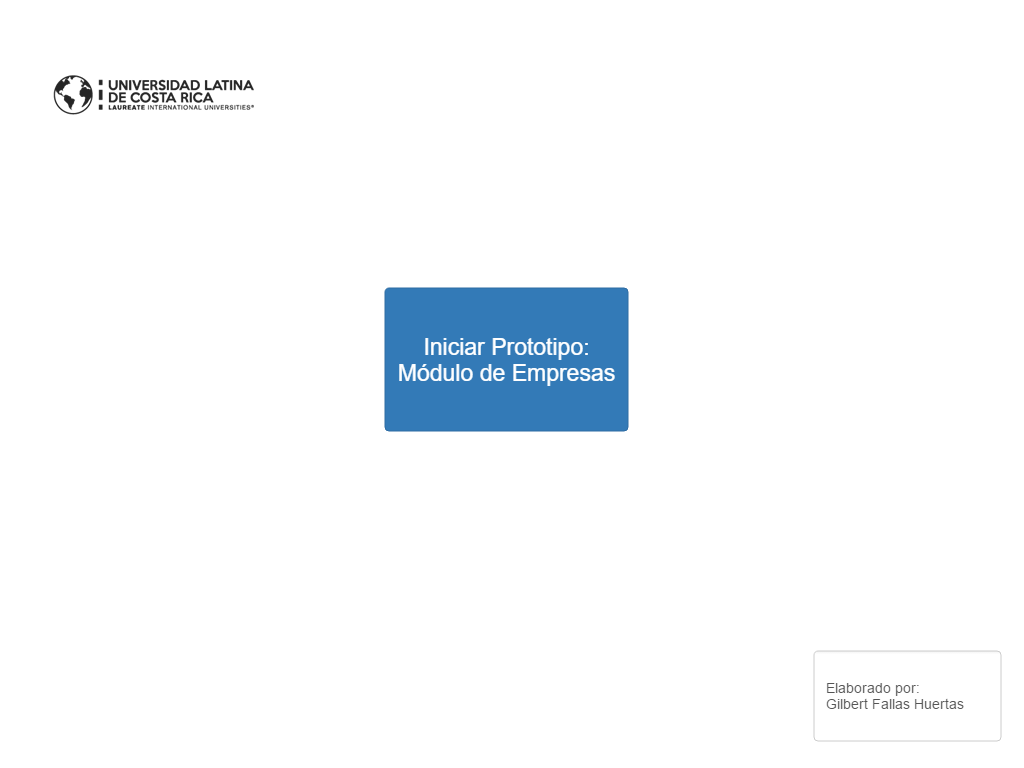
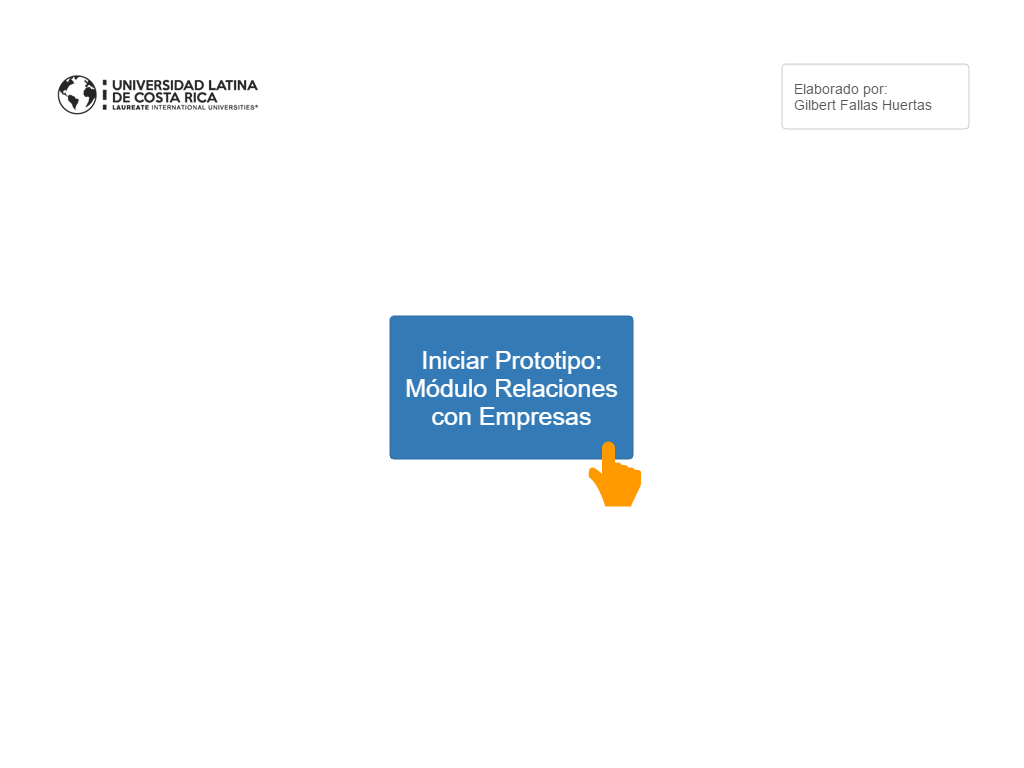
v1.4
Versión Final

diff --git a/index.html b/index.html
@@ -12,7 +12,7 @@
     <div class="Page" id="inicio_page">
         <h2>Inicio</h2>
         <div class="ImageContainer"><img src="pages\inicio.png" width="1024" height="768" usemap="#map_inicio" /></div>
-        <map name="map_inicio"><area shape="rect" coords="385,288,628,431" href="#1_proceso_de_registro_page"
+        <map name="map_inicio"><area shape="rect" coords="390,316,633,459" href="#1_proceso_de_registro_page"
                 title="Go to page '1. Proceso de registro'" /></map>
     </div>
     <div class="Page" id="1_proceso_de_registro_page">
@@ -20,24 +20,24 @@
         <div class="ImageContainer"><img src="pages\1_proceso_de_registro.png" width="1024" height="768"
                 usemap="#map_1_proceso_de_registro" /></div><map name="map_1_proceso_de_registro"><area shape="rect"
                 coords="159,499,870,547" href="#1a_pgina_de_registro_page"
-                title="Go to page '1.A Página de registro'" /></map>
+                title="Go to page '1.A. Página de registro'" /></map>
     </div>
     <div class="Page" id="1a_pgina_de_registro_page">
-        <h2>1.A Página de registro</h2>
+        <h2>1.A. Página de registro</h2>
         <div class="ImageContainer"><img src="pages\1a_pgina_de_registro.png" width="1024" height="768"
                 usemap="#map_1a_pgina_de_registro" /></div><map name="map_1a_pgina_de_registro"><area shape="rect"
                 coords="255,569,758,621" href="#1b_correo_de_activacin_page"
-                title="Go to page '1.B Correo de activación'" /></map>
+                title="Go to page '1.B. Correo de activación'" /></map>
     </div>
     <div class="Page" id="1b_correo_de_activacin_page">
-        <h2>1.B Correo de activación</h2>
+        <h2>1.B. Correo de activación</h2>
         <div class="ImageContainer"><img src="pages\1b_correo_de_activacin.png" width="1024" height="768"
                 usemap="#map_1b_correo_de_activacin" /></div><map name="map_1b_correo_de_activacin"><area shape="rect"
                 coords="403,354,557,418" href="#2_creacin_de_proyectos_page"
                 title="Go to page '2. Creación de proyectos'" /></map>
     </div>
     <div class="Page" id="1c_activacin_completada_page">
-        <h2>1.C Activación completada</h2>
+        <h2>1.C. Activación completada</h2>
         <div class="ImageContainer"><img src="pages\1c_activacin_completada.png" width="1024" height="768"
                 usemap="#map_1c_activacin_completada" /></div><map name="map_1c_activacin_completada"><area shape="rect"
                 coords="916,105,978,136" href="#2_creacin_de_proyectos_page"
@@ -52,17 +52,17 @@
                 title="Go to page '3. Autorización de proyectos'" /></map>
     </div>
     <div class="Page" id="2a_crear_proyecto_nuevo_page">
-        <h2>2.A Crear proyecto nuevo</h2>
+        <h2>2.A. Crear proyecto nuevo</h2>
         <div class="ImageContainer"><img src="pages\2a_crear_proyecto_nuevo.png" width="1024" height="768"
                 usemap="#map_2a_crear_proyecto_nuevo" /></div><map name="map_2a_crear_proyecto_nuevo"><area shape="rect"
                 coords="23,284,153,310" href="#2b_registrar_proyecto_page"
-                title="Go to page '2.B Registrar Proyecto'" /></map>
+                title="Go to page '2.B. Registrar Proyecto'" /></map>
     </div>
     <div class="Page" id="2b_registrar_proyecto_page">
-        <h2>2.B Registrar Proyecto</h2>
+        <h2>2.B. Registrar Proyecto</h2>
         <div class="ImageContainer"><img src="pages\2b_registrar_proyecto.png" width="1024" height="768"
                 usemap="#map_2b_registrar_proyecto" /></div><map name="map_2b_registrar_proyecto"><area shape="rect"
-                coords="453,599,516,637" href="#3a_ver_proyectos_page" title="Go to page '3.A Ver proyectos'" /><area
+                coords="453,599,516,637" href="#3a_ver_proyectos_page" title="Go to page '3.A. Ver proyectos'" /><area
                 shape="rect" coords="11,92,1012.00006103516,674.000061035156" href="#3_autorizacin_de_proyectos_page"
                 title="Go to page '3. Autorización de proyectos'" /></map>
     </div>
@@ -71,17 +71,17 @@
         <div class="ImageContainer"><img src="pages\3_autorizacin_de_proyectos.png" width="1024" height="768"
                 usemap="#map_3_autorizacin_de_proyectos" /></div><map name="map_3_autorizacin_de_proyectos"><area
                 shape="rect" coords="399,353,553,417" href="#3a_ver_proyectos_page"
-                title="Go to page '3.A Ver proyectos'" /></map>
+                title="Go to page '3.A. Ver proyectos'" /></map>
     </div>
     <div class="Page" id="3a_ver_proyectos_page">
-        <h2>3.A Ver proyectos</h2>
+        <h2>3.A. Ver proyectos</h2>
         <div class="ImageContainer"><img src="pages\3a_ver_proyectos.png" width="1024" height="768"
                 usemap="#map_3a_ver_proyectos" /></div><map name="map_3a_ver_proyectos"><area shape="rect"
                 coords="591,577,723,689" href="#3b_correo_de_notificacin_page"
-                title="Go to page '3.B Correo de notificación'" /></map>
+                title="Go to page '3.B. Correo de notificación'" /></map>
     </div>
     <div class="Page" id="3b_correo_de_notificacin_page">
-        <h2>3.B Correo de notificación</h2>
+        <h2>3.B. Correo de notificación</h2>
         <div class="ImageContainer"><img src="pages\3b_correo_de_notificacin.png" width="1024" height="768"
                 usemap="#map_3b_correo_de_notificacin" /></div><map name="map_3b_correo_de_notificacin"><area
                 shape="rect" coords="854,662,977,704" href="#4_inscripcin_a_los_proyectos_page"
@@ -92,17 +92,17 @@
         <div class="ImageContainer"><img src="pages\4_inscripcin_a_los_proyectos.png" width="1024" height="768"
                 usemap="#map_4_inscripcin_a_los_proyectos" /></div><map name="map_4_inscripcin_a_los_proyectos"><area
                 shape="rect" coords="660,337,721,377" href="#4a_seleccin_de_proyectos_page"
-                title="Go to page '4.A Selección de proyectos'" /></map>
+                title="Go to page '4.A. Selección de proyectos'" /></map>
     </div>
     <div class="Page" id="4a_seleccin_de_proyectos_page">
-        <h2>4.A Selección de proyectos</h2>
+        <h2>4.A. Selección de proyectos</h2>
         <div class="ImageContainer"><img src="pages\4a_seleccin_de_proyectos.png" width="1024" height="768"
                 usemap="#map_4a_seleccin_de_proyectos" /></div><map name="map_4a_seleccin_de_proyectos"><area
                 shape="rect" coords="481,643,601,682" href="#4b_notificacin_a_la_empresa_page"
-                title="Go to page '4.B Notificación a la empresa'" /></map>
+                title="Go to page '4.B. Notificación a la empresa'" /></map>
     </div>
     <div class="Page" id="4b_notificacin_a_la_empresa_page">
-        <h2>4.B Notificación a la empresa</h2>
+        <h2>4.B. Notificación a la empresa</h2>
         <div class="ImageContainer"><img src="pages\4b_notificacin_a_la_empresa.png" width="1024" height="768"
                 usemap="#map_4b_notificacin_a_la_empresa" /></div><map name="map_4b_notificacin_a_la_empresa"><area
                 shape="rect" coords="401,427,555,491" href="#5_invitacin_al_estudiante_page"
@@ -113,10 +113,10 @@
         <div class="ImageContainer"><img src="pages\5_invitacin_al_estudiante.png" width="1024" height="768"
                 usemap="#map_5_invitacin_al_estudiante" /></div><map name="map_5_invitacin_al_estudiante"><area
                 shape="rect" coords="254,574,397,653" href="#5a_notificacin_al_estudiante_page"
-                title="Go to page '5.A Notificación al estudiante'" /></map>
+                title="Go to page '5.A. Notificación al estudiante'" /></map>
     </div>
     <div class="Page" id="5a_notificacin_al_estudiante_page">
-        <h2>5.A Notificación al estudiante</h2>
+        <h2>5.A. Notificación al estudiante</h2>
         <div class="ImageContainer"><img src="pages\5a_notificacin_al_estudiante.png" width="1024" height="768"
                 usemap="#map_5a_notificacin_al_estudiante" /></div><map name="map_5a_notificacin_al_estudiante"><area
                 shape="rect" coords="401,413,555,477" href="#6_respuesta_del_estudiante_page"
@@ -127,10 +127,10 @@
         <div class="ImageContainer"><img src="pages\6_respuesta_del_estudiante.png" width="1024" height="768"
                 usemap="#map_6_respuesta_del_estudiante" /></div><map name="map_6_respuesta_del_estudiante"><area
                 shape="rect" coords="608,428,690,491" href="#6a_correo_de_confirmacin_final_page"
-                title="Go to page '6.A Correo de confirmación final'" /></map>
+                title="Go to page '6.A. Correo de confirmación final'" /></map>
     </div>
     <div class="Page" id="6a_correo_de_confirmacin_final_page">
-        <h2>6.A Correo de confirmación final</h2>
+        <h2>6.A. Correo de confirmación final</h2>
         <div class="ImageContainer"><img src="pages\6a_correo_de_confirmacin_final.png" width="1024" height="768"
                 usemap="#map_6a_correo_de_confirmacin_final" /></div><map
             name="map_6a_correo_de_confirmacin_final"><area shape="rect" coords="401,413,555,477"
